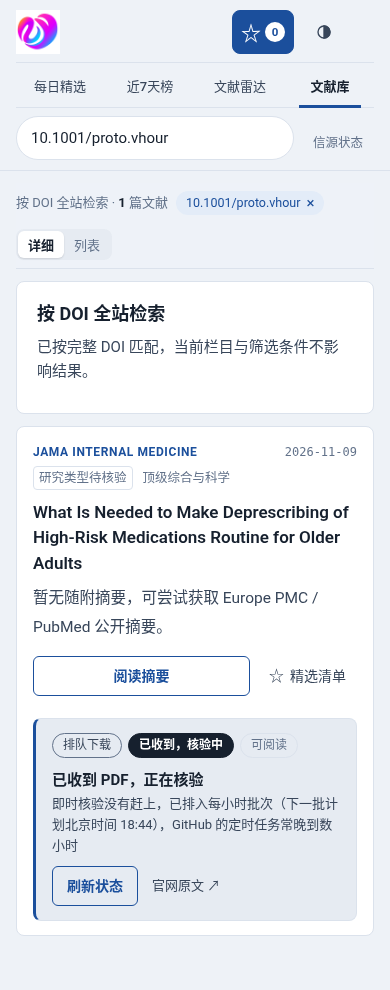
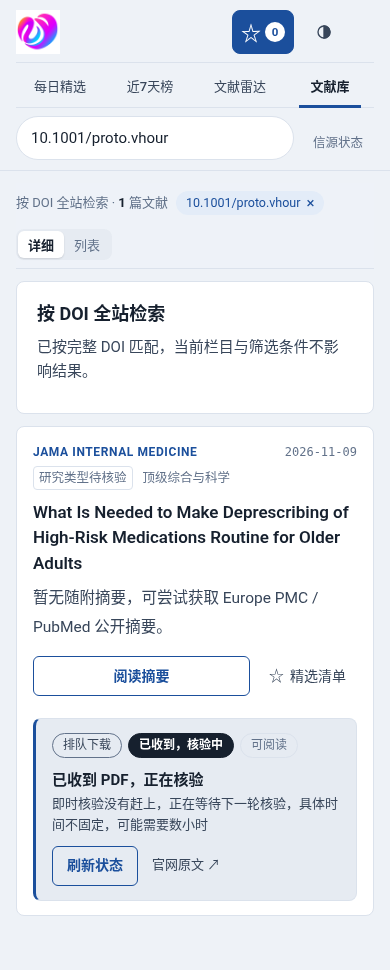
状态区不再显示按定时推算的钟点，改为「等待下一轮核验」

diff --git a/app.js b/app.js
@@ -1120,10 +1120,6 @@
   // One status description per paper for the whole page. The card, the DOI search view and the empty state all
   // render it, so the same task never shows different words in two places (see docs/使用说明.md "全文状态").
   const FT_STEPS = ['排队下载', '已收到，核验中', '可阅读'];
-  function ftClock(iso) {
-    const t = Date.parse(iso);
-    return Number.isFinite(t) ? '北京时间 ' + new Intl.DateTimeFormat('zh-CN', { timeZone: 'Asia/Shanghai', hour: '2-digit', minute: '2-digit', hour12: false }).format(new Date(t)) : '';
-  }
   function ftMaintainerMode() { return typeof MAINTAINER !== 'undefined' && MAINTAINER === true; }
   function fulltextView(p) {
     const doi = p && exactDoi(p.doi), job = doi ? DOI_JOBS.get(doi) : null, url = p ? pdfDownloadUrl(p) : '';
@@ -1132,9 +1128,9 @@
     const record = DOI_FULLTEXT.get(doi), received = job && job.sourceKind === 'reader_upload' ? '已收到你上传的 PDF' : job && job.sourceKind === 'open_access' ? '已取得开放获取的 PDF' : '已收到 PDF';
     if (job && doiJobActive(job)) {
       if (job.stage === 'verifying') {
-        const fast = job.verificationMode === 'immediate' && ftClock(job.verificationExpectedAt);
+        const fast = job.verificationMode === 'immediate';
         return { kind: 'verifying', step: 1, headline: received + '，正在核验', short: '已收到 PDF，核验中', action: 'refresh',
-          eta: fast ? '预计几分钟内完成（' + fast + ' 前后）' : '即时核验没有赶上，已排入每小时批次' + (ftClock(job.nextVerificationAt) ? '（下一批计划' + ftClock(job.nextVerificationAt) + '）' : '') + '，GitHub 的定时任务常晚到数小时' };
+          eta: fast ? '核验通常几分钟内完成' : '即时核验没有赶上，正在等待下一轮核验，具体时间不固定，可能需要数小时' };
       }
       if (job.stage === 'queued' || job.state === 'queued') return { kind: 'queued', step: 0, headline: '已排入下载队列，等待下载端领取', short: '全文排队中', eta: '预计数小时内，不保证即时', action: 'refresh', upload: true };
       return { kind: 'running', step: 0, headline: '下载端正在获取全文', short: '全文获取中', eta: '通常几十分钟内；取得后自动进入核验', action: 'refresh', upload: true };

diff --git a/src/app/04-filters.js b/src/app/04-filters.js
@@ -27,10 +27,6 @@
   // One status description per paper for the whole page. The card, the DOI search view and the empty state all
   // render it, so the same task never shows different words in two places (see docs/使用说明.md "全文状态").
   const FT_STEPS = ['排队下载', '已收到，核验中', '可阅读'];
-  function ftClock(iso) {
-    const t = Date.parse(iso);
-    return Number.isFinite(t) ? '北京时间 ' + new Intl.DateTimeFormat('zh-CN', { timeZone: 'Asia/Shanghai', hour: '2-digit', minute: '2-digit', hour12: false }).format(new Date(t)) : '';
-  }
   function ftMaintainerMode() { return typeof MAINTAINER !== 'undefined' && MAINTAINER === true; }
   function fulltextView(p) {
     const doi = p && exactDoi(p.doi), job = doi ? DOI_JOBS.get(doi) : null, url = p ? pdfDownloadUrl(p) : '';
@@ -39,9 +35,9 @@
     const record = DOI_FULLTEXT.get(doi), received = job && job.sourceKind === 'reader_upload' ? '已收到你上传的 PDF' : job && job.sourceKind === 'open_access' ? '已取得开放获取的 PDF' : '已收到 PDF';
     if (job && doiJobActive(job)) {
       if (job.stage === 'verifying') {
-        const fast = job.verificationMode === 'immediate' && ftClock(job.verificationExpectedAt);
+        const fast = job.verificationMode === 'immediate';
         return { kind: 'verifying', step: 1, headline: received + '，正在核验', short: '已收到 PDF，核验中', action: 'refresh',
-          eta: fast ? '预计几分钟内完成（' + fast + ' 前后）' : '即时核验没有赶上，已排入每小时批次' + (ftClock(job.nextVerificationAt) ? '（下一批计划' + ftClock(job.nextVerificationAt) + '）' : '') + '，GitHub 的定时任务常晚到数小时' };
+          eta: fast ? '核验通常几分钟内完成' : '即时核验没有赶上，正在等待下一轮核验，具体时间不固定，可能需要数小时' };
       }
       if (job.stage === 'queued' || job.state === 'queued') return { kind: 'queued', step: 0, headline: '已排入下载队列，等待下载端领取', short: '全文排队中', eta: '预计数小时内，不保证即时', action: 'refresh', upload: true };
       return { kind: 'running', step: 0, headline: '下载端正在获取全文', short: '全文获取中', eta: '通常几十分钟内；取得后自动进入核验', action: 'refresh', upload: true };

diff --git a/docs/使用说明.md b/docs/使用说明.md
@@ -187,7 +187,7 @@
 | 可阅读 | 网站已核验全文 | 下载 PDF（点击后输入全文口令） |
 | 待补全文 | 站内还没有这篇全文 | 获取全文：就地展开口令框，提交后原地变为“排队中” |
 | 全文排队中 / 全文获取中 | 等待下载端领取或正在获取 | 刷新状态；无需重复提交 |
-| 已收到 PDF，核验中 | 原件已回传，等待网站核验 | 刷新状态；写明预计几分钟内，或已排入每小时批次 |
+| 已收到 PDF，核验中 | 原件已回传，等待网站核验 | 刷新状态；写明「核验通常几分钟内完成」，或「正在等待下一轮核验，可能需要数小时」（不显示具体钟点） |
 | 全文核验未通过 | 收到的 PDF 不能确认是这篇的原文 | 直接上传 PDF |
 | 全文未取得 | 这次没能取得全文 | 重新获取全文（就地填口令）；也可以直接上传 PDF |
 
